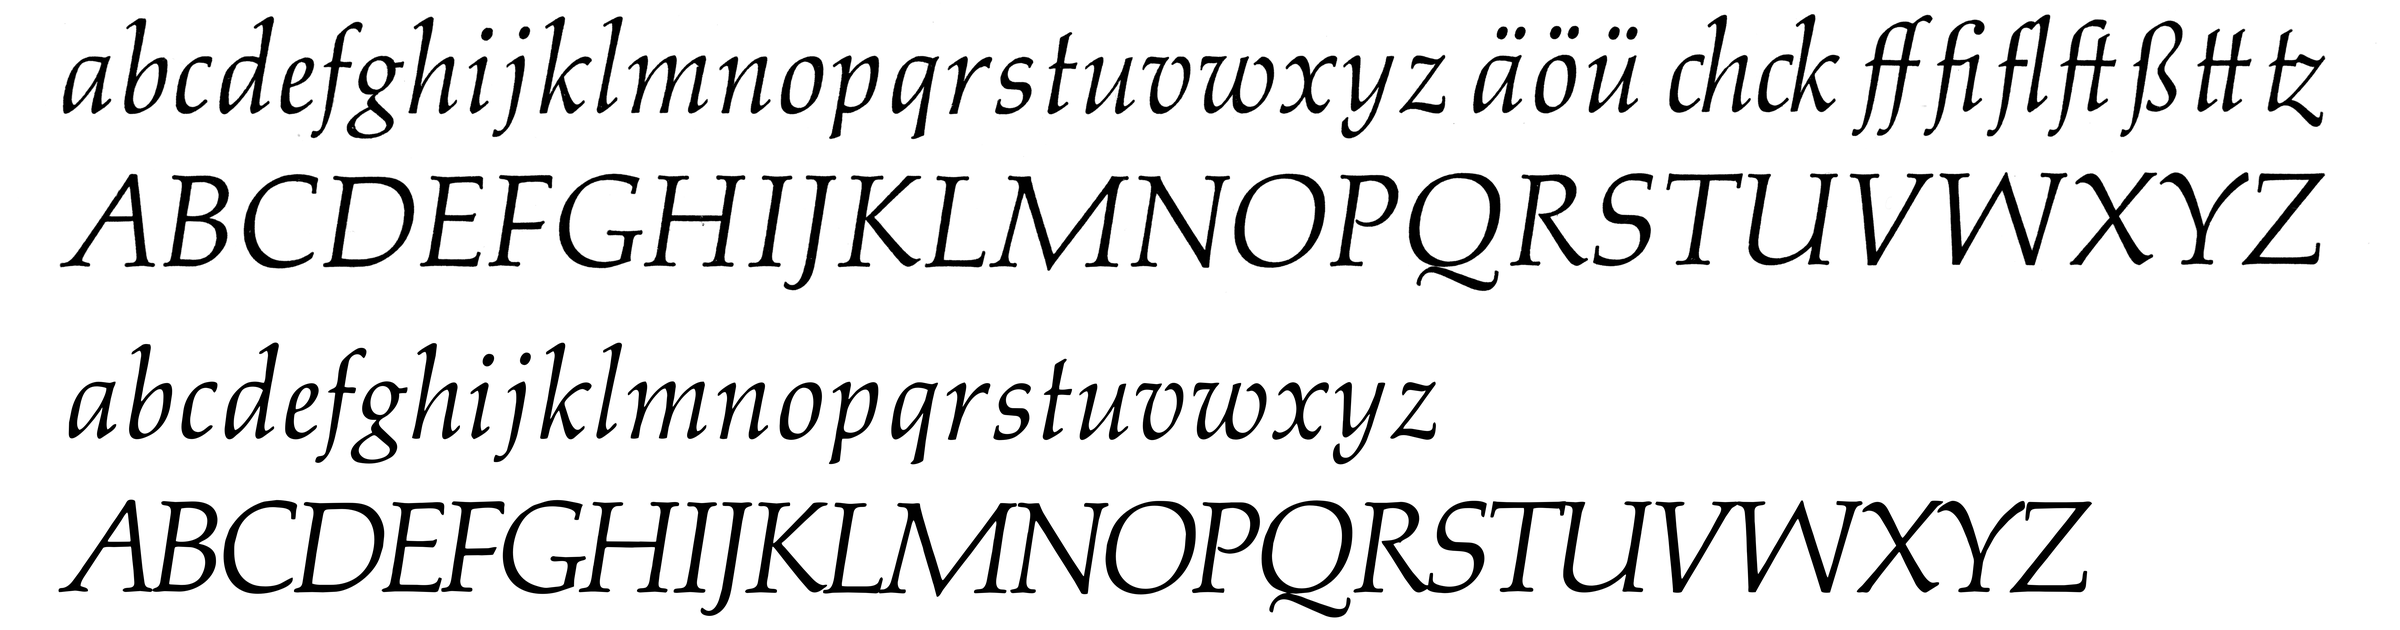
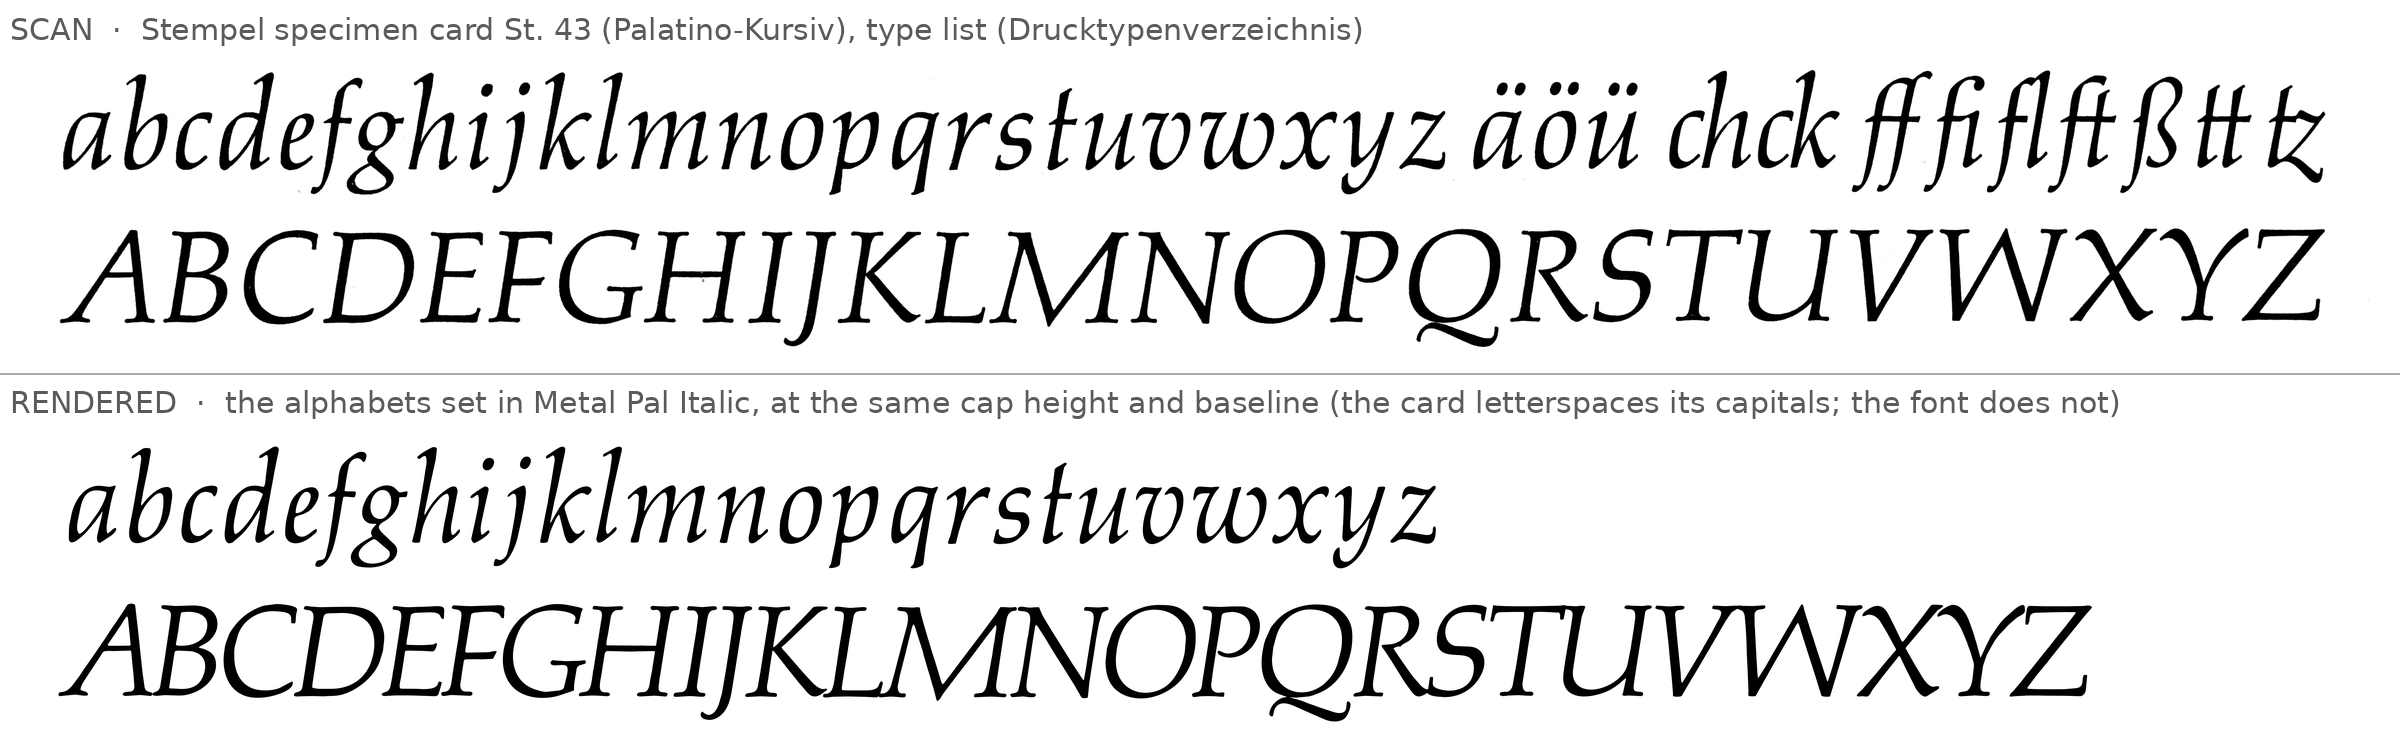
Label the scan and the rendering in the compare specimens
Claude-Session: https://claude.ai/code/session_01CQ6vQT7wSPZggDUC1j13RF

diff --git a/metal-pal/tools/specimen.py b/metal-pal/tools/specimen.py
@@ -10,6 +10,7 @@ ROOT = os.path.join(os.path.dirname(__file__), '..')
 OUT = os.path.join(ROOT, 'specimen')
 STYLES = ['Regular', 'Italic', 'Bold']
 LABEL = '/usr/share/fonts/truetype/dejavu/DejaVuSans.ttf'
+CARDS = {'Regular': 'St. 2 (Palatino)', 'Italic': 'St. 43 (Palatino-Kursiv)', 'Bold': 'St. 44 (Halbfette Palatino)'}
 
 def fontpath(st): return os.path.join(ROOT, 'fonts', 'otf', f'MetalPal-{st}.otf')
 
@@ -70,10 +71,17 @@ def compare(st):
     for t, a, b, bi in ((t0, a0, b0, 0), (t1, a1, b1, 1)):
         first = boxes[bi]['bboxes'][0][0]
         d.text((first - x0, a + b * first - y0), t, font=f, fill=0, anchor='ls')
-    w = 2400; s = w / crop.width
-    both = Image.new('L', (w, int(crop.height * s) * 2 + 20), 255)
-    both.paste(crop.resize((w, int(crop.height * s)), Image.LANCZOS), (0, 0))
-    both.paste(ren.resize((w, int(crop.height * s)), Image.LANCZOS), (0, int(crop.height * s) + 20))
+    w = 2400; s = w / crop.width; h = int(crop.height * s)
+    lab = ImageFont.truetype(LABEL, 30); L = 56
+    both = Image.new('L', (w, 2 * (L + h) + 24), 255); d = ImageDraw.Draw(both)
+    d.text((10, 12), f'SCAN  ·  Stempel specimen card {CARDS[st]}, type list (Drucktypenverzeichnis)',
+           font=lab, fill=90)
+    both.paste(crop.resize((w, h), Image.LANCZOS), (0, L))
+    y = L + h + 12
+    d.line((0, y, w, y), fill=170, width=2)
+    d.text((10, y + 12), f'RENDERED  ·  the alphabets set in Metal Pal {st}, at the same cap height and baseline'
+           ' (the card letterspaces its capitals; the font does not)', font=lab, fill=90)
+    both.paste(ren.resize((w, h), Image.LANCZOS), (0, y + L))
     both.save(os.path.join(OUT, f'compare-{st}.png'))
 
 if __name__ == '__main__':
